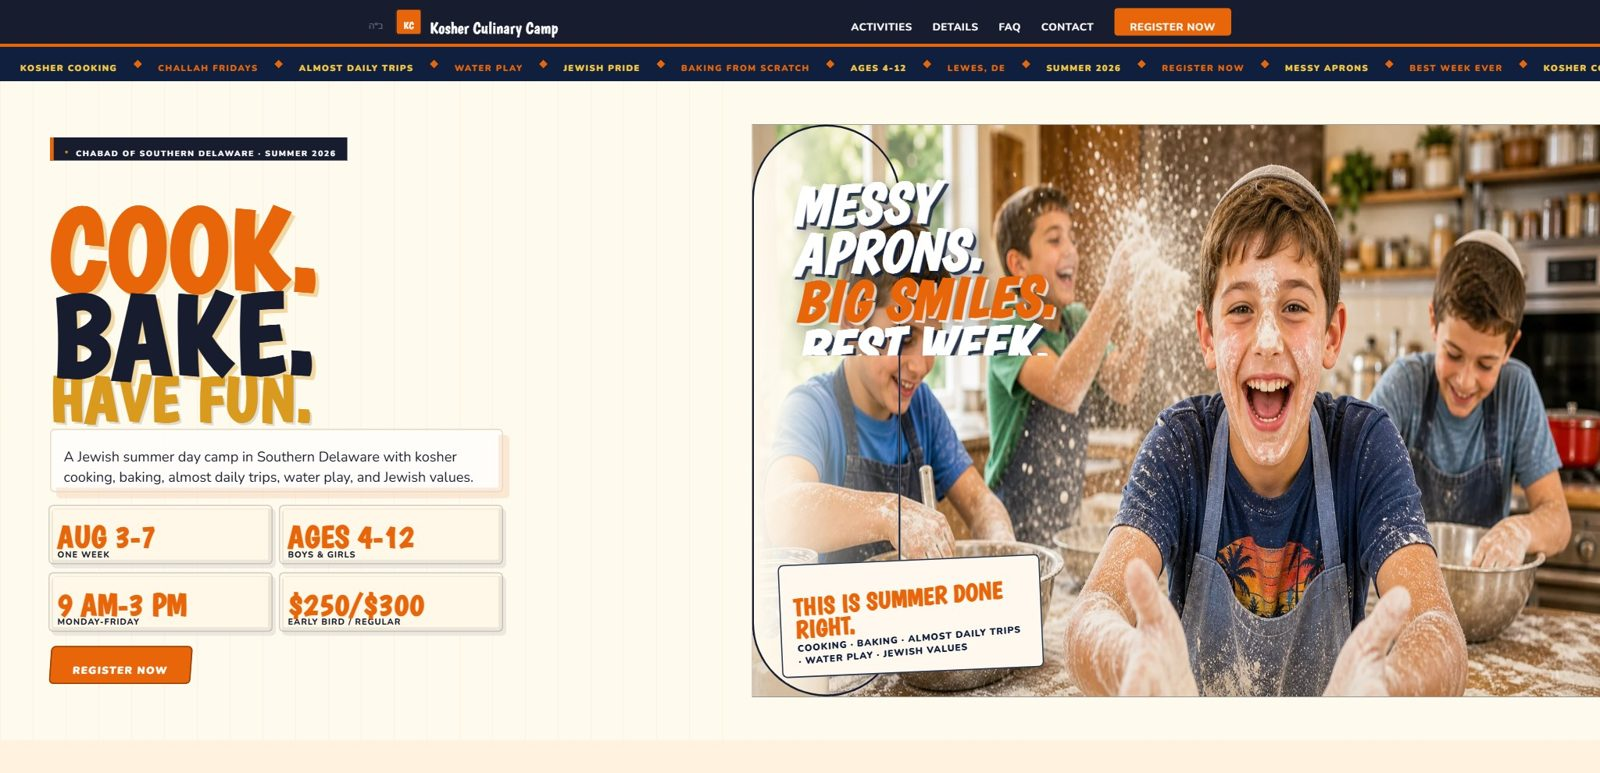
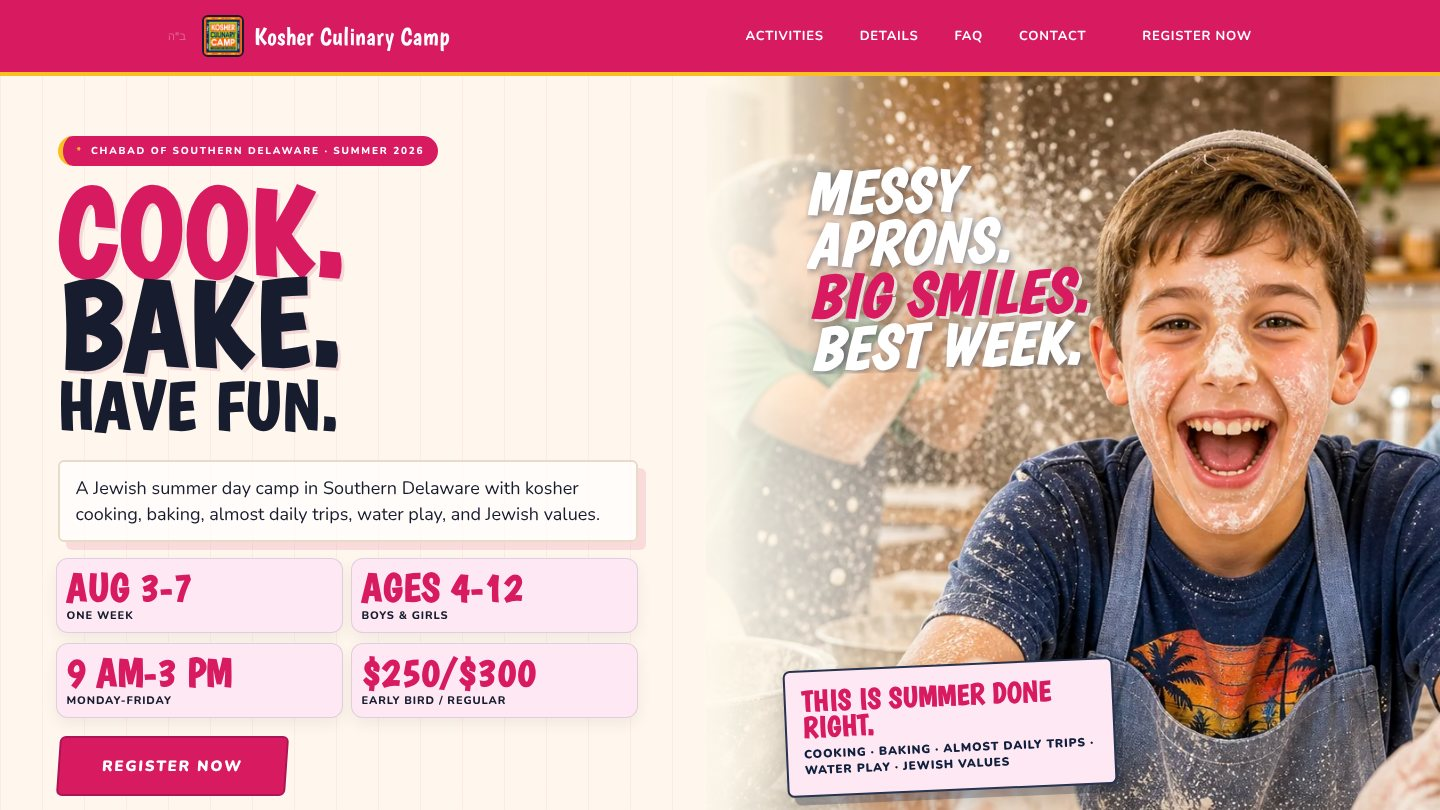
Retake Troy and Delaware screenshots, use main DAAS visual in hero, rearrange proof stack
Claude-Session: https://claude.ai/code/session_01BZmtUT3TD9hdM4nzc8jZSG

diff --git a/style.css b/style.css
@@ -1458,11 +1458,11 @@ h3 {
 .hero-frame--camp img, .hero-frame--gala img { aspect-ratio: 16 / 9; object-fit: cover; object-position: top; }
 .hero-frame-bar { display: flex; gap: 6px; padding: 9px 12px; background: #1B2333; }
 .hero-frame-bar i { width: 8px; height: 8px; border-radius: 50%; background: rgba(255,255,255,0.25); }
-.hero-frame--camp { top: 0;    right: 0; width: 62%; }
-.hero-frame--gala { top: 17%;  left: 0;  width: 60%; }
-.hero-frame--ai   { bottom: 0; right: 0; width: 72%; }
+.hero-frame--camp { top: 0;    left: 0;   width: 64%; }
+.hero-frame--gala { top: 24%;  right: 0;  width: 60%; }
+.hero-frame--ai   { bottom: 0; left: 6%;  width: 74%; }
 .hero-tag {
-  position: absolute; z-index: 5; bottom: 4%; left: 4%;
+  position: absolute; z-index: 5; bottom: 5%; right: 3%;
   font-family: var(--font-ui); font-size: 0.72rem; font-weight: 600; letter-spacing: 0.08em; text-transform: uppercase;
   padding: 0.45rem 0.7rem; border-radius: var(--radius-full);
   background: var(--color-accent); color: #FFFFFF; box-shadow: 0 6px 18px rgba(0,0,0,0.35);
@@ -1472,9 +1472,9 @@ h3 {
 @media (max-width: 900px) {
   .hero-content.hero-split { grid-template-columns: 1fr; }
   .hero-stack { height: clamp(320px, 62vw, 470px); }
-  .hero-frame--camp { width: 56%; }
-  .hero-frame--gala { top: 14%; width: 54%; }
-  .hero-frame--ai   { width: 64%; }
+  .hero-frame--camp { width: 58%; }
+  .hero-frame--gala { top: 22%; width: 54%; }
+  .hero-frame--ai   { width: 66%; }
 }
 @media (max-width: 700px) {
   .hero-offers { grid-template-columns: 1fr; gap: 0.9rem; }

diff --git a/index.html b/index.html
@@ -151,8 +151,7 @@
           <img src="assets/portfolio/gala-fredericksburg.jpg" width="1600" height="780" alt="Shining Lights Gala website for Chabad of Fredericksburg">
         </figure>
         <figure class="hero-frame hero-frame--ai">
-          <div class="hero-frame-bar" aria-hidden="true"><i></i><i></i><i></i></div>
-          <img src="assets/daas-assistant.jpg" width="1400" height="865" alt="DAAS CRM assistant drafting a Shabbos dinner invitation email">
+          <img src="assets/daas-main.jpg" width="1200" height="630" alt="DAAS, your helpful shlichus assistant: an illustration of a shliach asking &quot;Who should I invite for Shabbos?&quot;">
         </figure>
         <span class="hero-tag">AI at work</span>
       </div>
